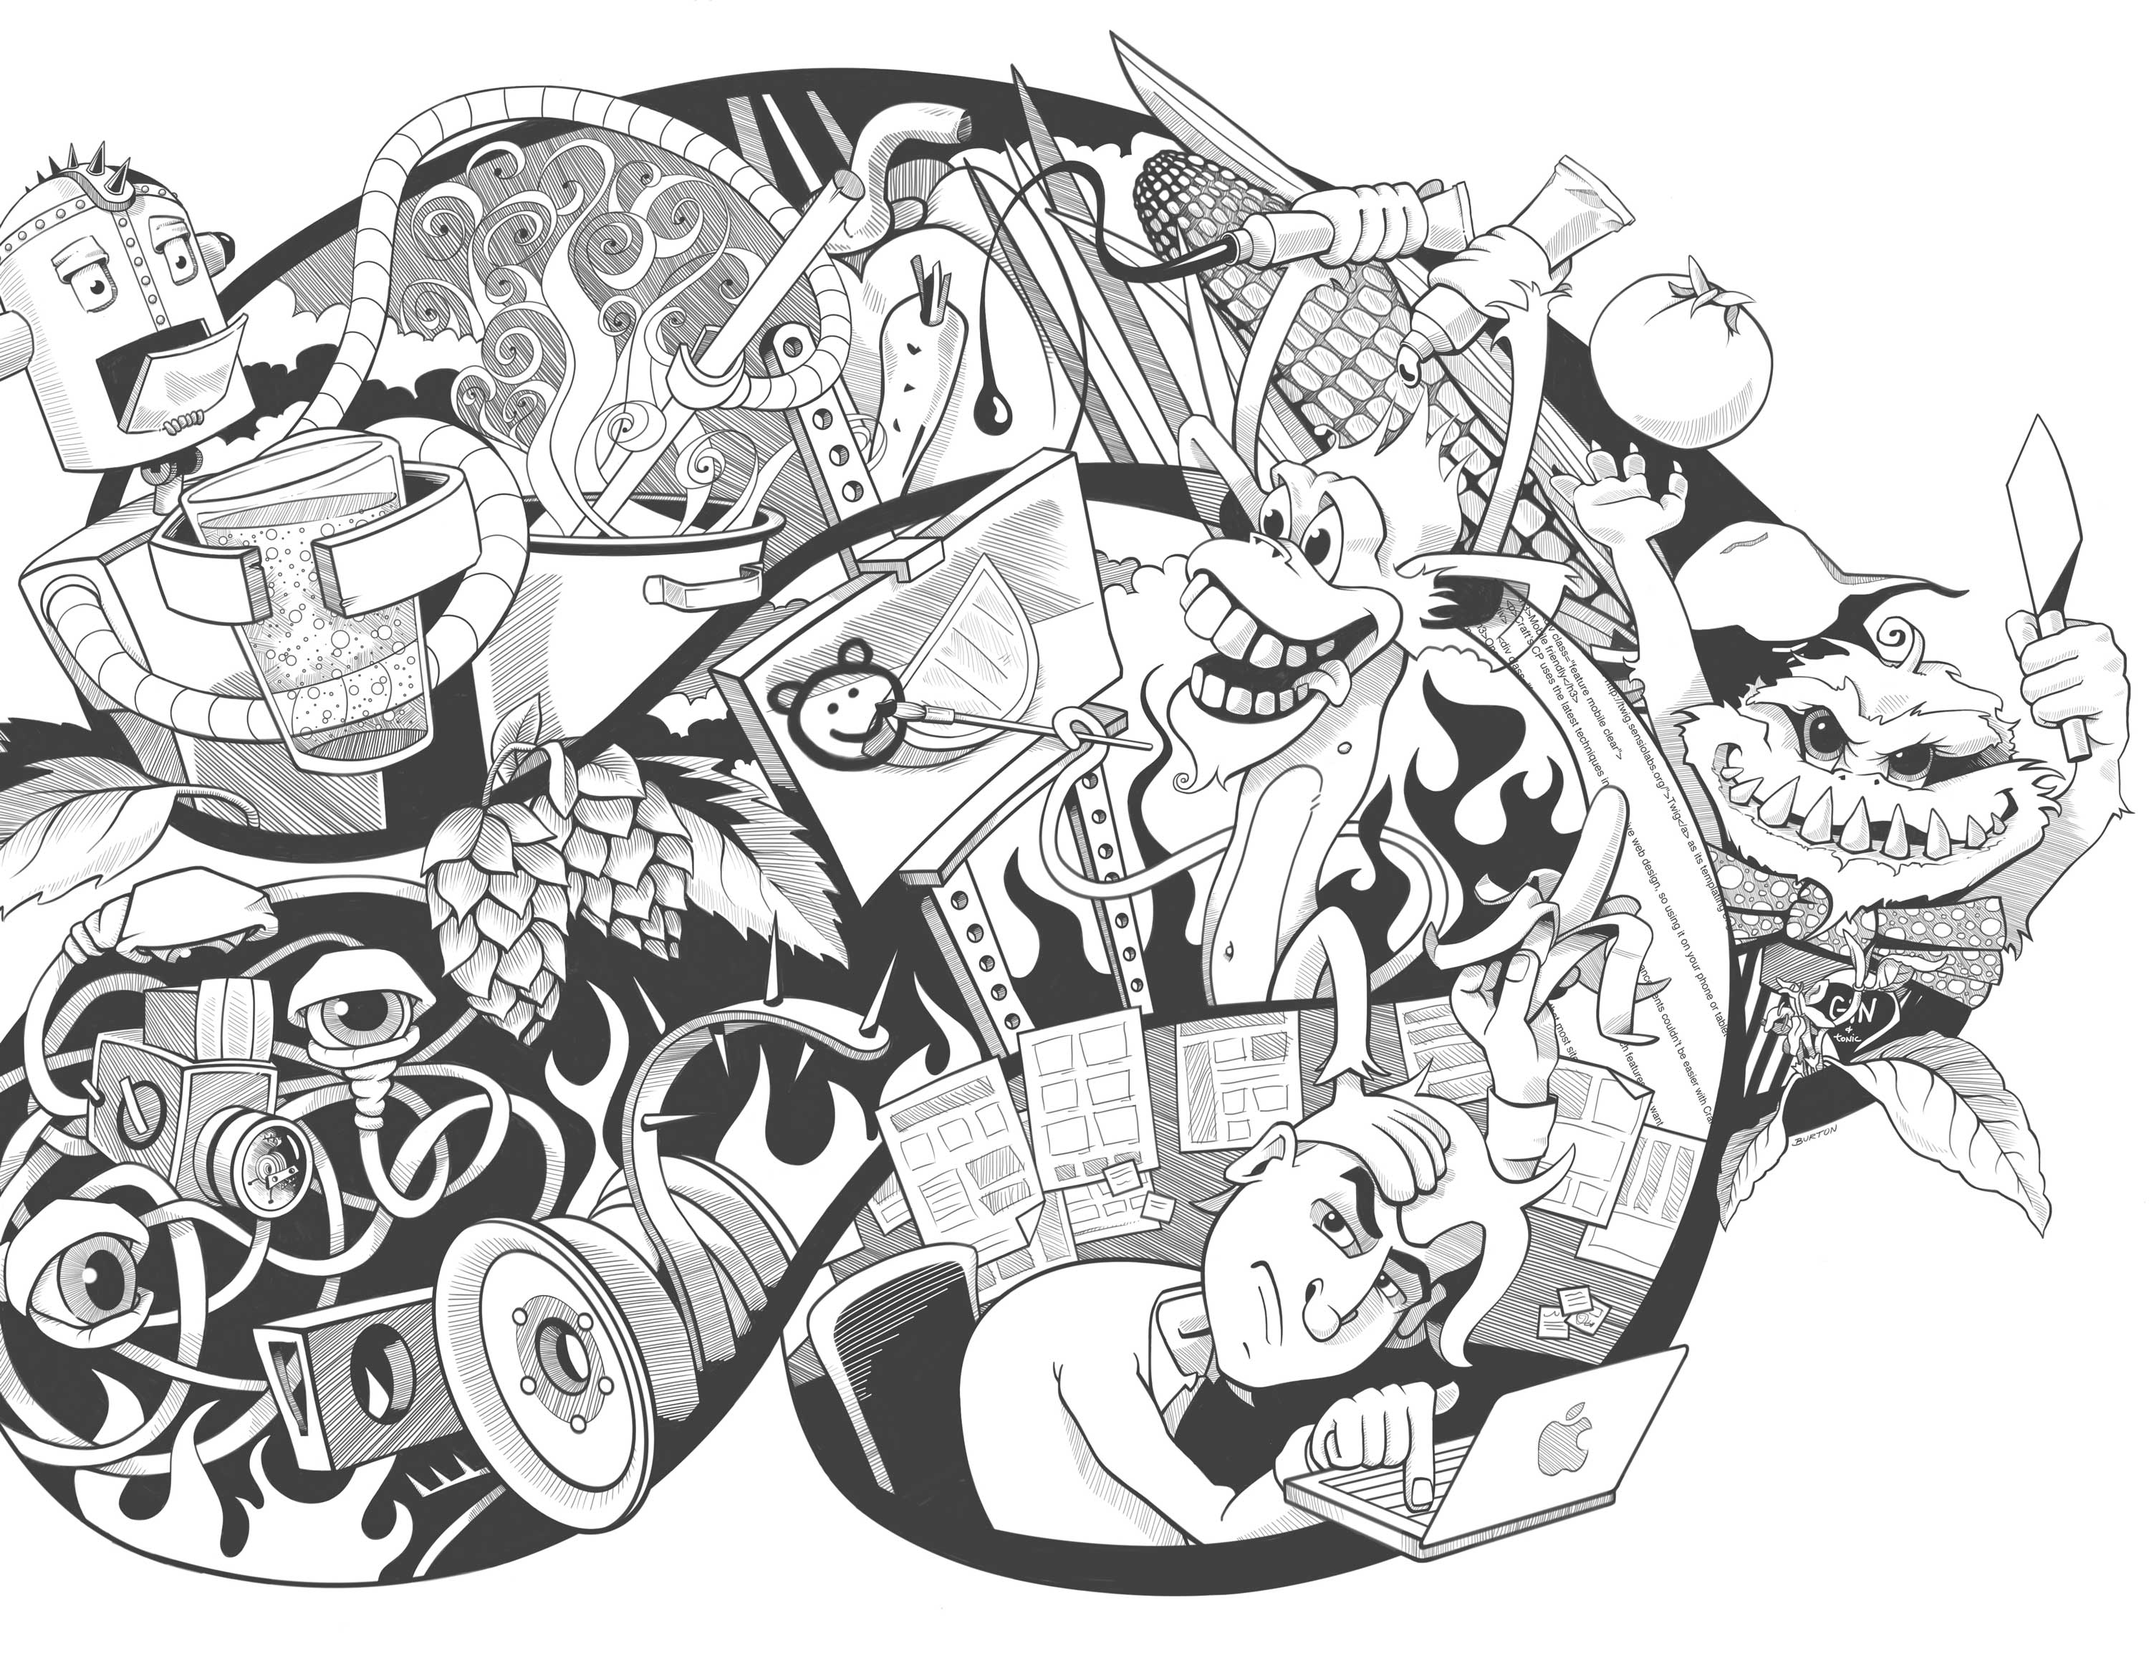
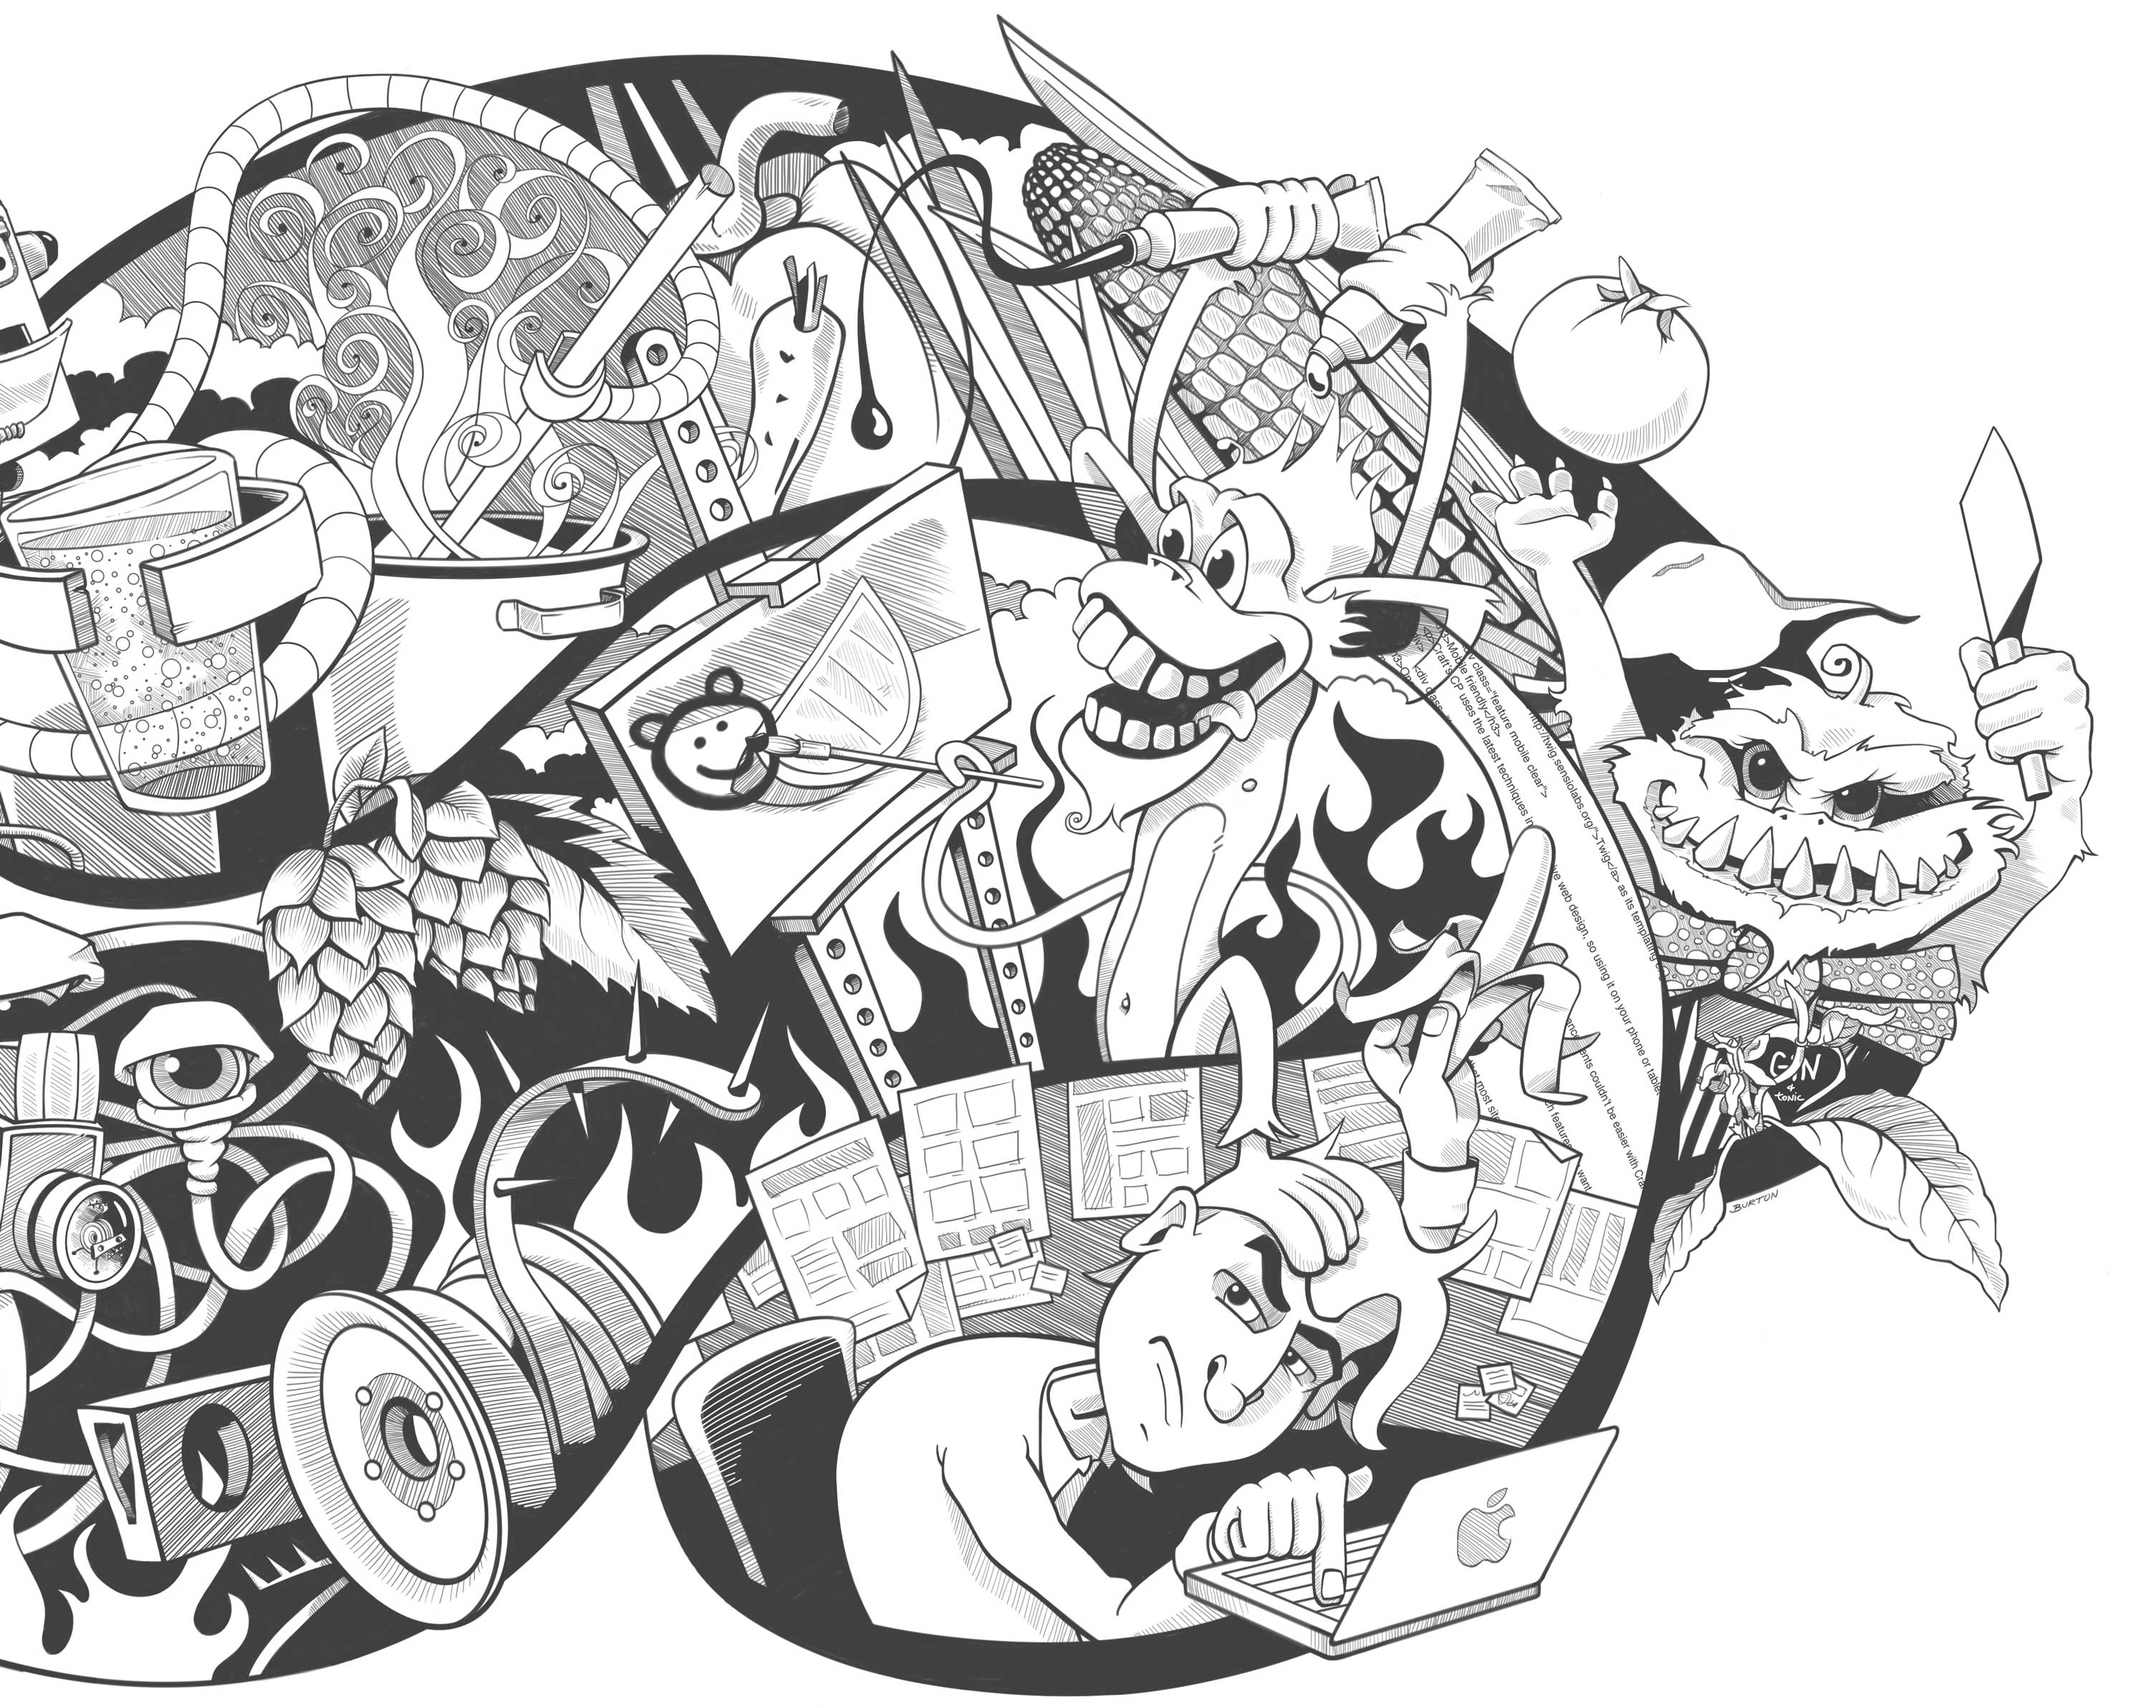
Cleanup

diff --git a/src/resources/css/install.scss b/src/resources/css/install.scss
@@ -5,7 +5,7 @@
 html, body { height: 100%; }
 body { overflow: hidden; background: #fff; }
 
-#bg { position: fixed; top: 0; left: 0; width: 143%; height: 100%; background: url(../images/install_bg.jpg) no-repeat 0 50%; background-size: 100%; }
+#bg { position: fixed; top: 0; left: 0; width: 150%; height: 100%; background: url(../images/install_bg.jpg) no-repeat 0 50%; background-size: 100%; }
 
 .beginbtncontainer { position: absolute; top: 50%; margin-top: -15px; width: 100%; text-align: center; }
 #beginbtn { display: inline-block; border-radius: 4px; padding: 12px 15px; font-weight: bold; font-size: 19px; height: 42px; line-height: 18px; }
